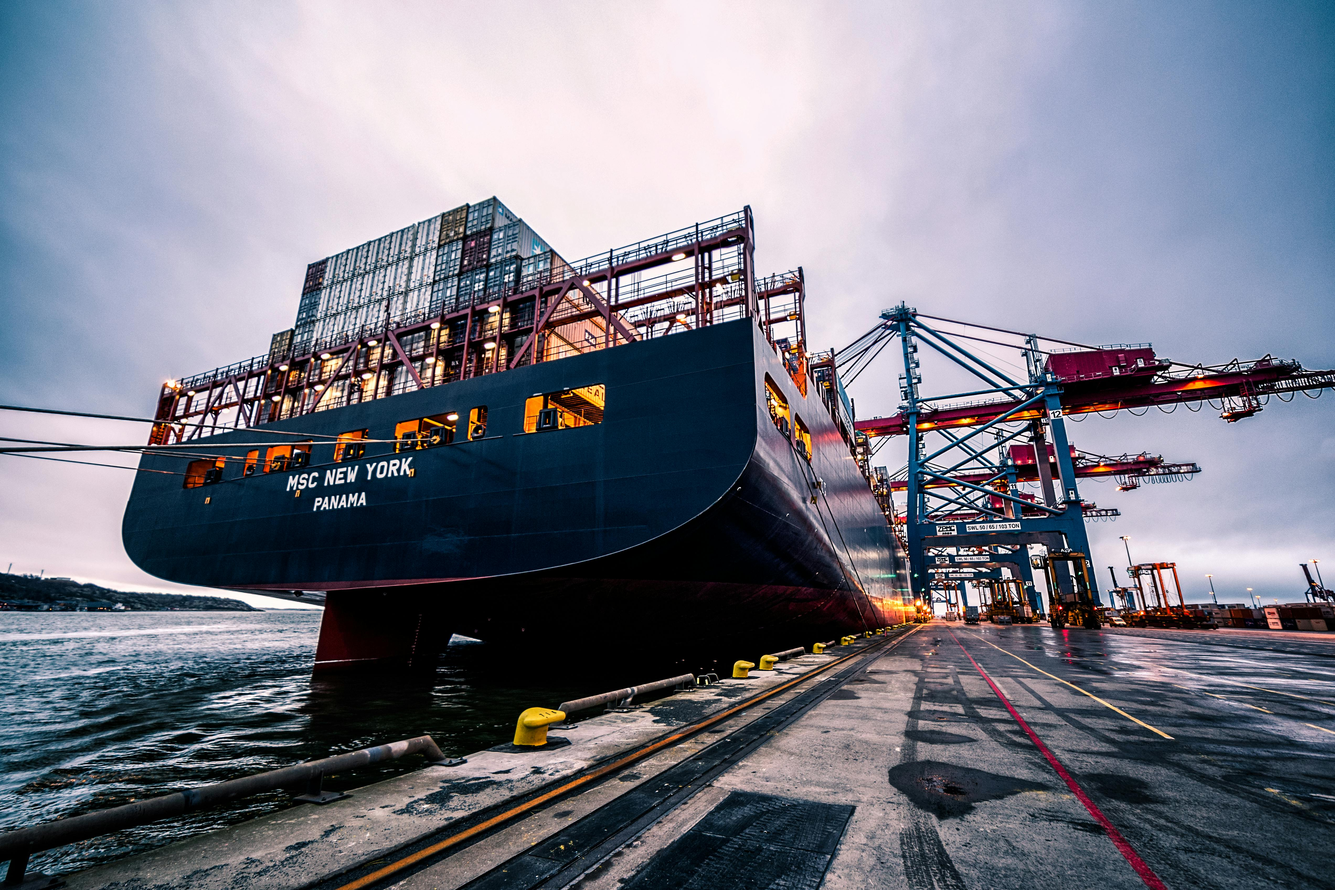
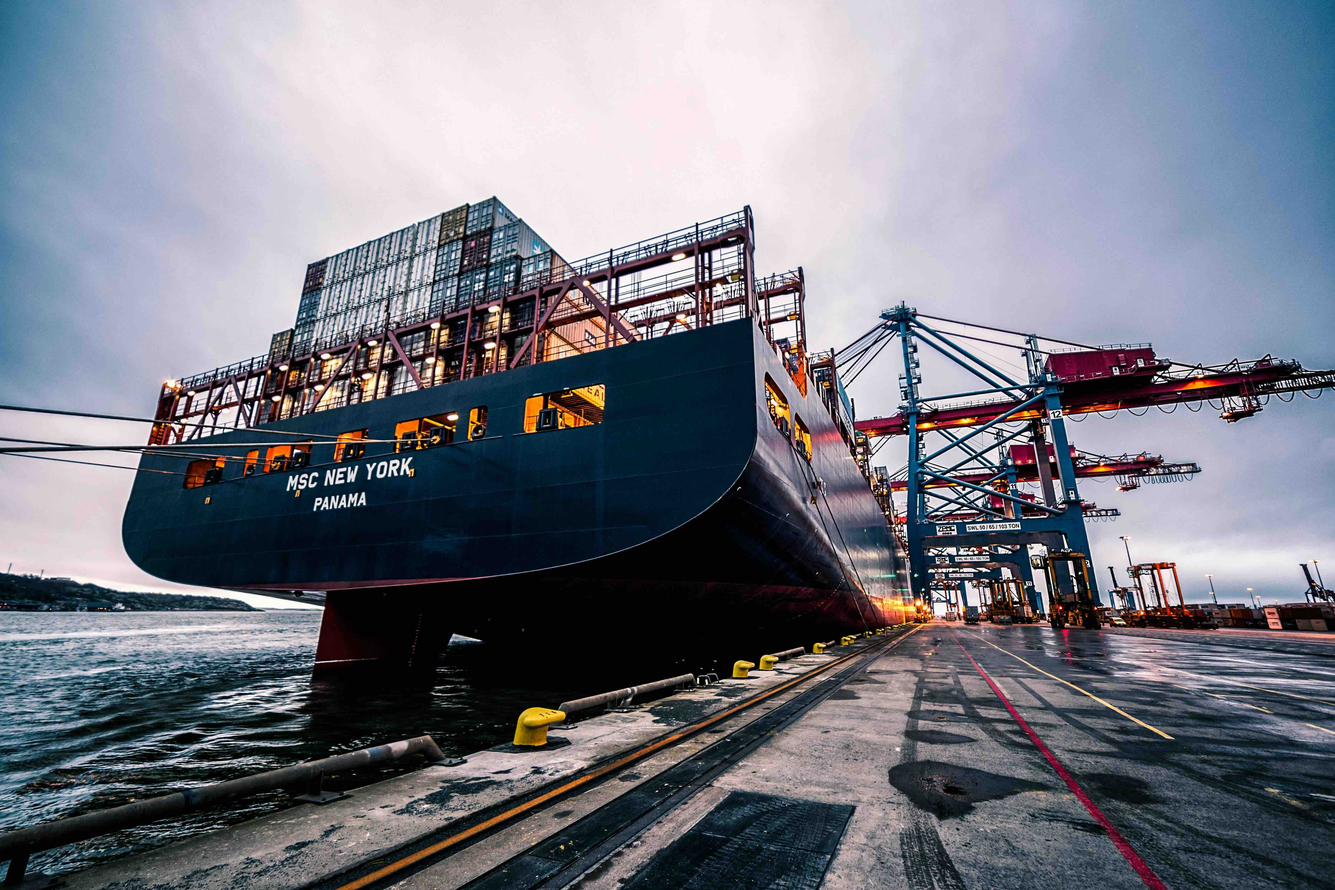
updated projects and changed image size.

diff --git a/pages/projects.vue b/pages/projects.vue
@@ -132,7 +132,7 @@ const projects = [
     description: 'Managing the end to end logistics of a company. From the order, delivery, tracking, inventory and production consumption. AI suggestion for planning optimization.',
     image: '/images/projects/logistics.jpg', //Photo by Albin Berlin: https://www.pexels.com/photo/black-sail-ship-on-body-of-water-906982/
     category: { id: 'logistics', name: 'Web Development', color: 'purple' },
-    technologies: ['i-logos-nodejs-icon', 'i-simple-icons-neo4j', 'i-logos-python', 'i-logos-react'],
+    technologies: ['i-logos-python', 'i-logos-react','i-logos-nodejs-icon', 'i-simple-icons-neo4j', ],
     link: '/projects/corporate-redesign'
   },
   {
@@ -159,7 +159,7 @@ const projects = [
     description: 'Custom AI chatbot for enterprise use. Integrate with your existing data and systems.',
     image: '/images/projects/aichatbot.jpg', //Photo by Markus Winkler: https://www.pexels.com/photo/chatgpt-spelled-with-wooden-letter-tiles-on-table-30869075/
     category: { id: 'ai', name: 'Web Development', color: 'green' },
-    technologies: ['i-logos-nodejs-icon', 'i-logos-wordpress-icon'],
+    technologies: ['i-logos-nodejs-icon', 'i-simple-icons-wordpress'],
     link: '/projects/fitness-app'
   }
 ]
